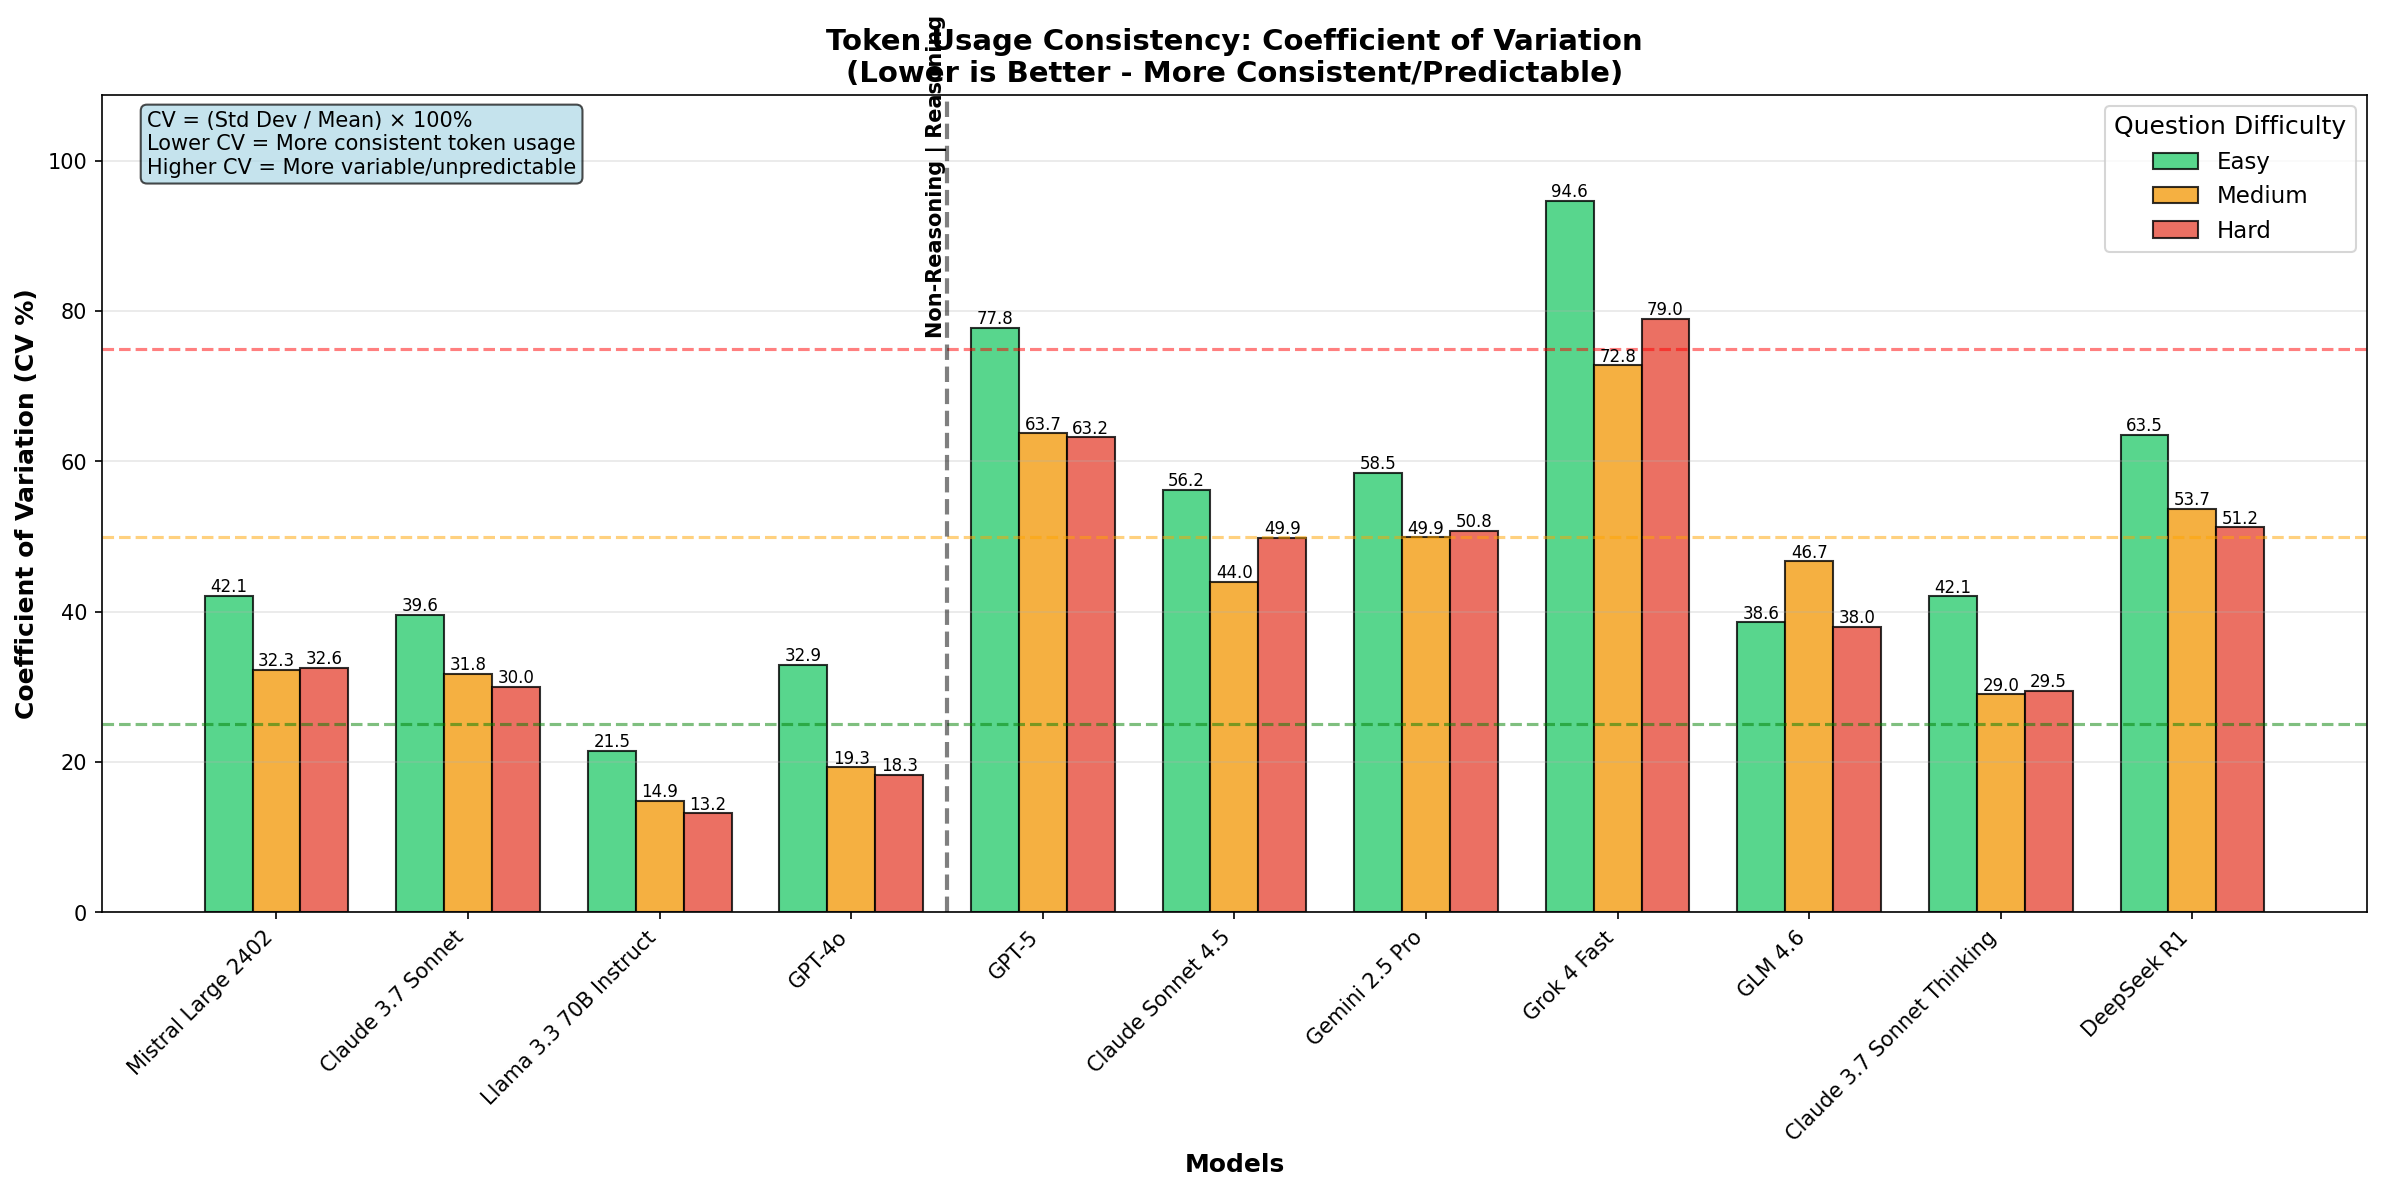
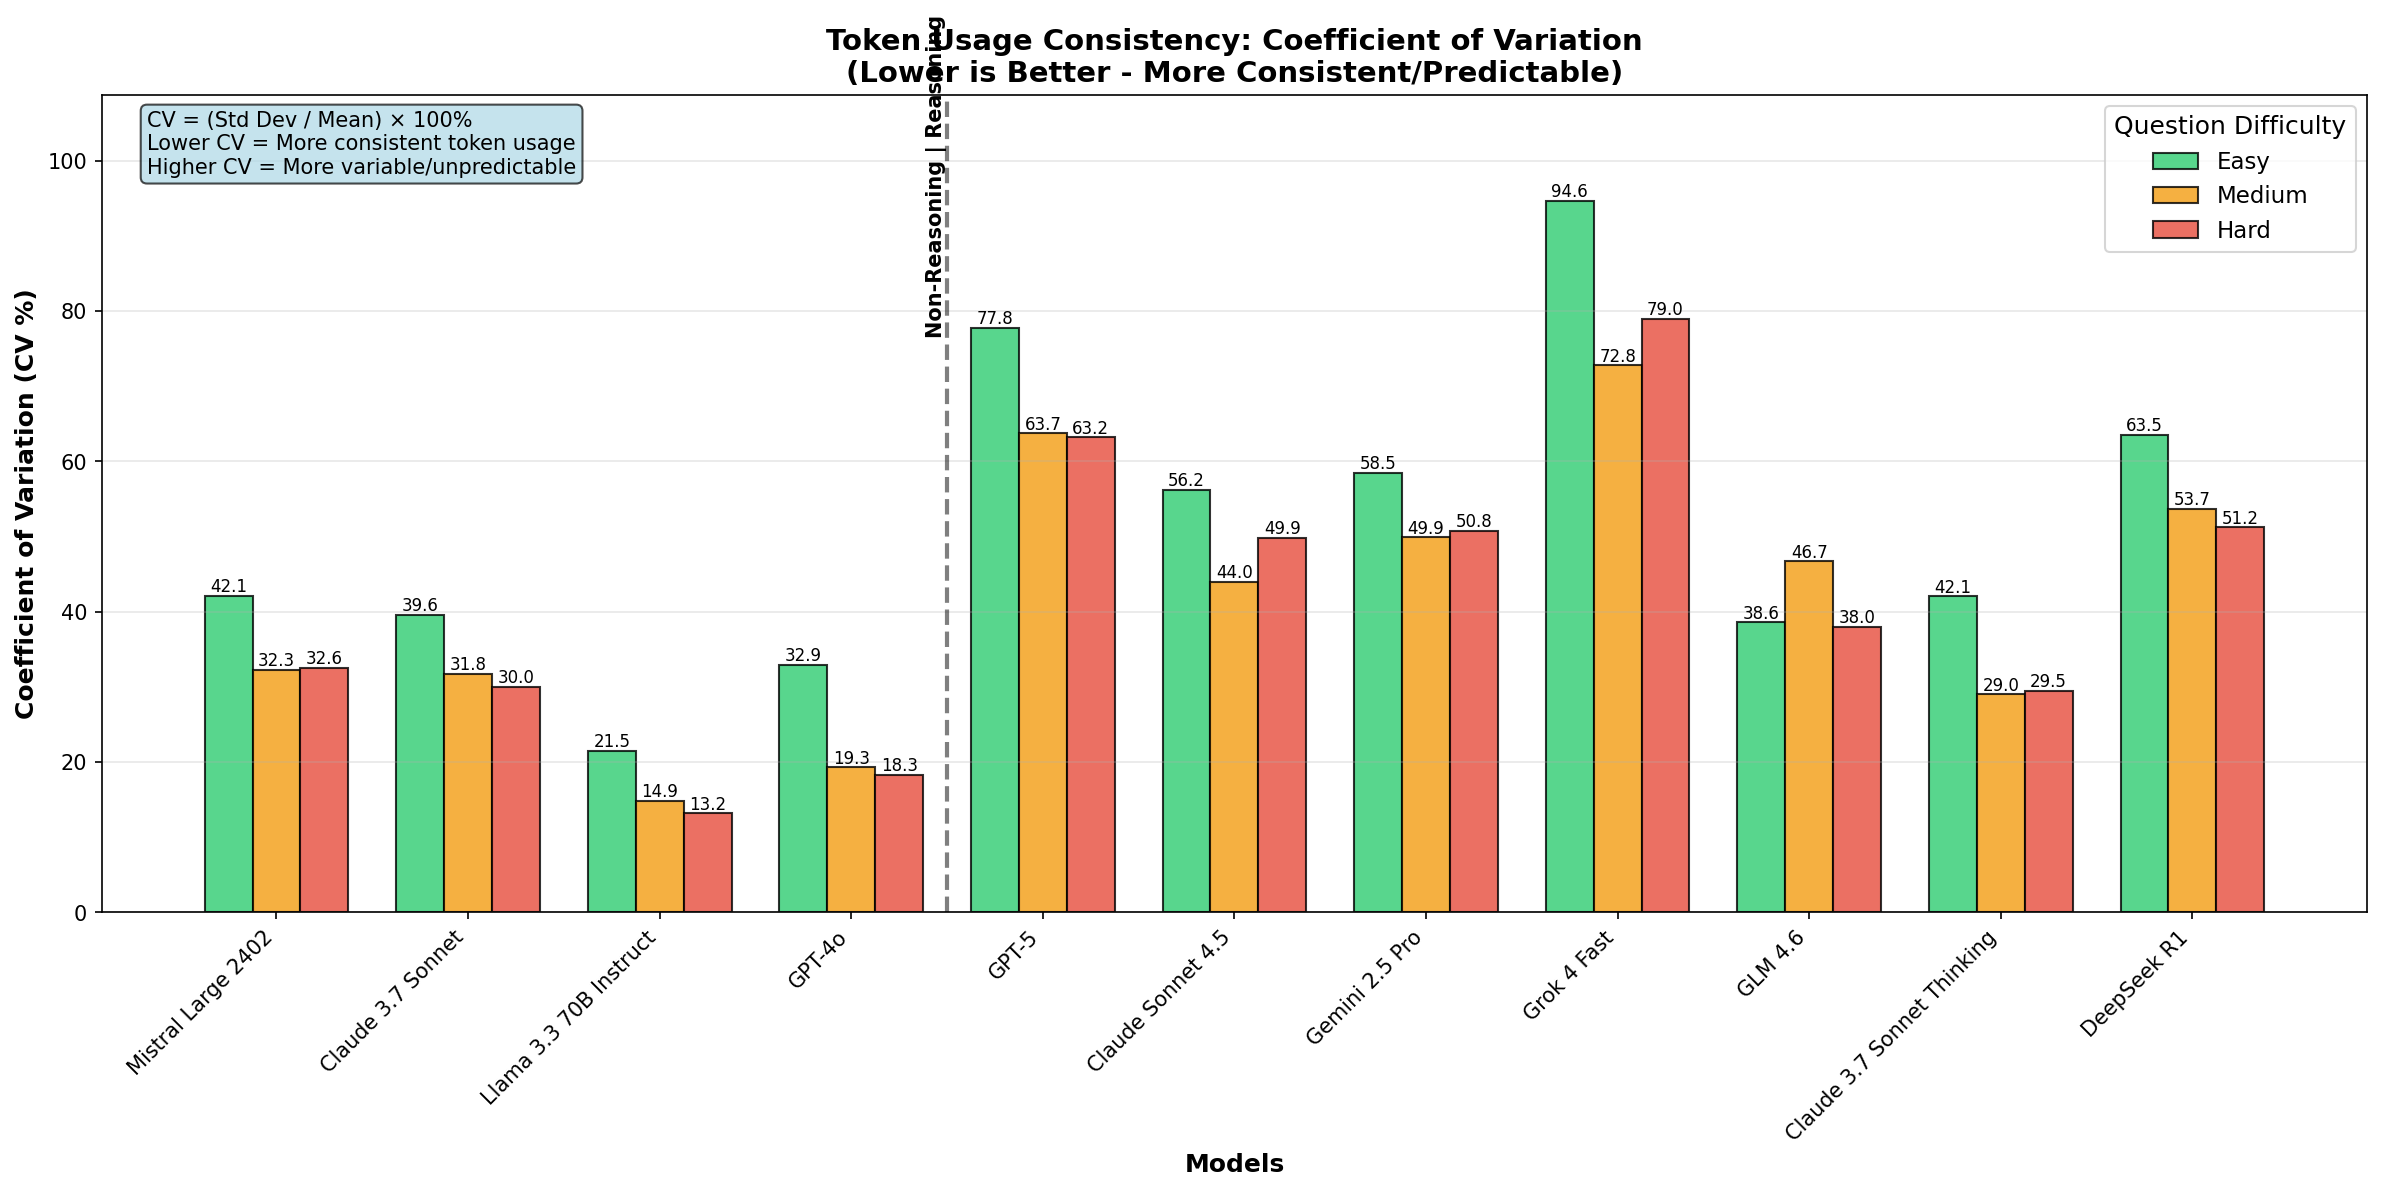
new plots added.

diff --git a/src/analyzing/plot_cost_vs_accuracy.py b/src/analyzing/plot_cost_vs_accuracy.py
@@ -1,0 +1,240 @@
+#!/usr/bin/env python3
+"""
+Create a scatter plot of cost vs accuracy for all models.
+Cost is calculated based on total input/output tokens and model-specific pricing.
+"""
+
+import pandas as pd
+import matplotlib.pyplot as plt
+from pathlib import Path
+import numpy as np
+
+
+def get_base_path() -> Path:
+    """Get the base path for the project."""
+    return Path(__file__).resolve().parents[2]
+
+
+def load_model_data():
+    """
+    Load data from all CSV files and calculate costs.
+    
+    Returns:
+        DataFrame with columns: Model, Accuracy, Cost, Input_Tokens, Output_Tokens
+    """
+    base = get_base_path()
+    results_dir = base / "src" / "results" / "new_results_csv"
+    
+    # Pricing per 1M tokens (input, output)
+    pricing = {
+        "Mistral Large": (4.00, 12.00),
+        "Claude 3.7 + Reasoning": (3.00, 15.00),
+        "Claude 3.7 Sonnet": (3.00, 15.00),
+        "DeepSeek R1": (1.35, 5.40),
+        "Llama 3.3 70B": (0.72, 0.72),
+        "GPT-4o": (2.50, 10.00),
+        "GPT-5": (1.25, 10.00),
+        "Claude Sonnet 4.5": (3.00, 15.00),
+        "Gemini 2.5 Pro": (1.25, 10.00),
+        "Grok 4 Fast": (0.20, 0.50),
+        "GLM 4.6": (0.40, 1.75),
+    }
+    
+    # Map file names to display names
+    file_to_model = {
+        "bedrock_mistral.mistral-large-2402-v1_0": "Mistral Large",
+        "claude-3-7-sonnet-20250219-v1_0-reasoning": "Claude 3.7 + Reasoning",
+        "claude-3-7-sonnet-20250219-v1_0.csv": "Claude 3.7 Sonnet",
+        "deepseek.r1-v1_0-reasoning": "DeepSeek R1",
+        "llama3-3-70b-instruct": "Llama 3.3 70B",
+        "gpt-4o": "GPT-4o",
+        "gpt-5": "GPT-5",
+        "claude-sonnet-4.5": "Claude Sonnet 4.5",
+        "gemini-2.5-pro": "Gemini 2.5 Pro",
+        "grok-4-fast": "Grok 4 Fast",
+        "glm-4.6": "GLM 4.6",
+    }
+    
+    data = []
+    
+    for csv_file in results_dir.glob("*.csv"):
+        # Find matching model name
+        model_name = None
+        for pattern, name in file_to_model.items():
+            if pattern in csv_file.name:
+                model_name = name
+                break
+        
+        if not model_name:
+            print(f"Warning: Could not match {csv_file.name} to a model")
+            continue
+        
+        # Load CSV
+        df = pd.read_csv(csv_file)
+        
+        if len(df) == 0:
+            print(f"Warning: Empty file {csv_file.name}")
+            continue
+        
+        # Extract data (first row)
+        row = df.iloc[0]
+        accuracy = row['Accuracy (%)']
+        total_input_tokens = row['Total Input Tokens']
+        total_output_tokens = row['Total Output Tokens']
+        
+        # Get pricing
+        if model_name not in pricing:
+            print(f"Warning: No pricing for {model_name}")
+            continue
+        
+        input_price, output_price = pricing[model_name]
+        
+        # Calculate cost (pricing is per 1M tokens)
+        cost = (total_input_tokens / 1_000_000 * input_price + 
+                total_output_tokens / 1_000_000 * output_price)
+        
+        data.append({
+            'Model': model_name,
+            'Accuracy': accuracy,
+            'Cost': cost,
+            'Input_Tokens': total_input_tokens,
+            'Output_Tokens': total_output_tokens,
+        })
+        
+        print(f"Loaded {model_name}: Accuracy={accuracy:.2f}%, Cost=${cost:.2f}")
+    
+    return pd.DataFrame(data)
+
+
+def create_scatter_plot(df: pd.DataFrame, output_dir: Path):
+    """Create and save the cost vs accuracy scatter plot."""
+    
+    fig, ax = plt.subplots(figsize=(14, 10))
+    
+    # Create color map based on model families
+    color_map = {
+        'Claude 3.7 + Reasoning': '#8B4513',
+        'Claude 3.7 Sonnet': '#D2691E',
+        'Claude Sonnet 4.5': '#CD853F',
+        'GPT-4o': '#4169E1',
+        'GPT-5': '#1E90FF',
+        'Gemini 2.5 Pro': '#32CD32',
+        'DeepSeek R1': '#FF69B4',
+        'Llama 3.3 70B': '#9370DB',
+        'Mistral Large': '#FFD700',
+        'Grok 4 Fast': '#00CED1',
+        'GLM 4.6': '#FF6347',
+    }
+    
+    # Plot each model
+    for idx, row in df.iterrows():
+        color = color_map.get(row['Model'], '#808080')
+        ax.scatter(row['Cost'], row['Accuracy'], 
+                  s=200, c=color, alpha=0.7, 
+                  edgecolors='black', linewidth=1.5,
+                  label=row['Model'])
+        
+        # Add model name labels with smart positioning
+        offset_x = row['Cost'] * 0.02
+        offset_y = 0.3
+        ax.annotate(row['Model'], 
+                   (row['Cost'], row['Accuracy']),
+                   xytext=(offset_x, offset_y),
+                   textcoords='offset points',
+                   fontsize=9,
+                   fontweight='bold',
+                   bbox=dict(boxstyle='round,pad=0.3', 
+                            facecolor=color, 
+                            edgecolor='black',
+                            alpha=0.7),
+                   ha='left')
+    
+    # Styling
+    ax.set_xlabel('Total Cost ($)', fontsize=14, fontweight='bold')
+    ax.set_ylabel('Accuracy (%)', fontsize=14, fontweight='bold')
+    ax.set_title('Model Cost vs Accuracy', 
+                fontsize=16, fontweight='bold', pad=20)
+    
+    ax.grid(True, alpha=0.3, linestyle='--')
+    ax.set_xlim(left=0)
+    ax.set_ylim(bottom=min(df['Accuracy']) - 2, top=max(df['Accuracy']) + 2)
+    
+    plt.tight_layout()
+    
+    # Save plot
+    output_path = output_dir / "cost_vs_accuracy_scatter.png"
+    plt.savefig(output_path, dpi=300, bbox_inches='tight')
+    print(f"\n✅ Plot saved to: {output_path}")
+    
+    plt.close()
+    
+    # Create a summary table
+    df_sorted = df.sort_values('Accuracy', ascending=False)
+    
+    print("\n" + "=" * 80)
+    print("MODEL RANKINGS BY ACCURACY")
+    print("=" * 80)
+    print(f"{'Rank':<6} {'Model':<30} {'Accuracy':<12} {'Cost':<10} {'$/1% Acc':<10}")
+    print("-" * 80)
+    
+    for i, (idx, row) in enumerate(df_sorted.iterrows(), 1):
+        cost_per_acc = row['Cost'] / row['Accuracy']
+        print(f"{i:<6} {row['Model']:<30} {row['Accuracy']:>6.2f}%     ${row['Cost']:>7.2f}   ${cost_per_acc:>7.4f}")
+    
+    print("\n" + "=" * 80)
+    print("MODEL RANKINGS BY COST")
+    print("=" * 80)
+    
+    df_sorted = df.sort_values('Cost')
+    print(f"{'Rank':<6} {'Model':<30} {'Cost':<12} {'Accuracy':<12}")
+    print("-" * 80)
+    
+    for i, (idx, row) in enumerate(df_sorted.iterrows(), 1):
+        print(f"{i:<6} {row['Model']:<30} ${row['Cost']:>7.2f}     {row['Accuracy']:>6.2f}%")
+    
+    print("\n" + "=" * 80)
+    print("BEST VALUE MODELS (Highest Accuracy per Dollar)")
+    print("=" * 80)
+    
+    df['Acc_per_Dollar'] = df['Accuracy'] / df['Cost']
+    df_sorted = df.sort_values('Acc_per_Dollar', ascending=False)
+    
+    print(f"{'Rank':<6} {'Model':<30} {'Acc/$ Ratio':<15} {'Accuracy':<12} {'Cost':<10}")
+    print("-" * 80)
+    
+    for i, (idx, row) in enumerate(df_sorted.iterrows(), 1):
+        print(f"{i:<6} {row['Model']:<30} {row['Acc_per_Dollar']:>8.4f}       {row['Accuracy']:>6.2f}%     ${row['Cost']:>7.2f}")
+
+
+def main():
+    """Main execution."""
+    base = get_base_path()
+    output_dir = base / "src" / "plots"
+    output_dir.mkdir(parents=True, exist_ok=True)
+    
+    print("=" * 80)
+    print("COST VS ACCURACY ANALYSIS")
+    print("=" * 80)
+    print()
+    
+    # Load data
+    print("Loading model data and calculating costs...")
+    df = load_model_data()
+    
+    if len(df) == 0:
+        print("Error: No data loaded!")
+        return
+    
+    print(f"\n✅ Loaded data for {len(df)} models")
+    
+    # Create plot
+    print("\nCreating scatter plot...")
+    create_scatter_plot(df, output_dir)
+    
+    print("\n" + "=" * 80)
+    print("✅ Analysis complete!")
+    print("=" * 80)
+
+
+if __name__ == "__main__":
+    main()

diff --git a/src/analyzing/plot_token_consistency.py b/src/analyzing/plot_token_consistency.py
@@ -222,11 +222,6 @@ def plot_token_consistency(
     ax.legend(title='Question Difficulty', fontsize=11, title_fontsize=12)
     ax.grid(axis='y', alpha=0.3)
     
-    # Add reference lines
-    ax.axhline(y=25, color='green', linestyle='--', linewidth=1.5, alpha=0.5, label='Low variance (25%)')
-    ax.axhline(y=50, color='orange', linestyle='--', linewidth=1.5, alpha=0.5, label='Medium variance (50%)')
-    ax.axhline(y=75, color='red', linestyle='--', linewidth=1.5, alpha=0.5, label='High variance (75%)')
-    
     # Add separator line between GPT-4o and GPT-5
     try:
         gpt4o_idx = available_models.index("GPT-4o")

diff --git a/src/analyzing/plot_token_efficiency_ratio.py b/src/analyzing/plot_token_efficiency_ratio.py
@@ -210,7 +210,7 @@ def plot_token_efficiency_ratio(
     
     ax.set_ylabel('Tokens per Correct Answer (log scale)', fontsize=12, fontweight='bold')
     ax.set_xlabel('Models', fontsize=12, fontweight='bold')
-    ax.set_title('Token Efficiency Ratio: Tokens Needed per Correct Answer\n(Lower is Better - More Efficient)', 
+    ax.set_title('Token Efficiency Ratio: Tokens Needed per Correct Answer', 
                 fontsize=14, fontweight='bold')
     ax.set_xticks(x)
     ax.set_xticklabels(available_models, rotation=45, ha='right')
